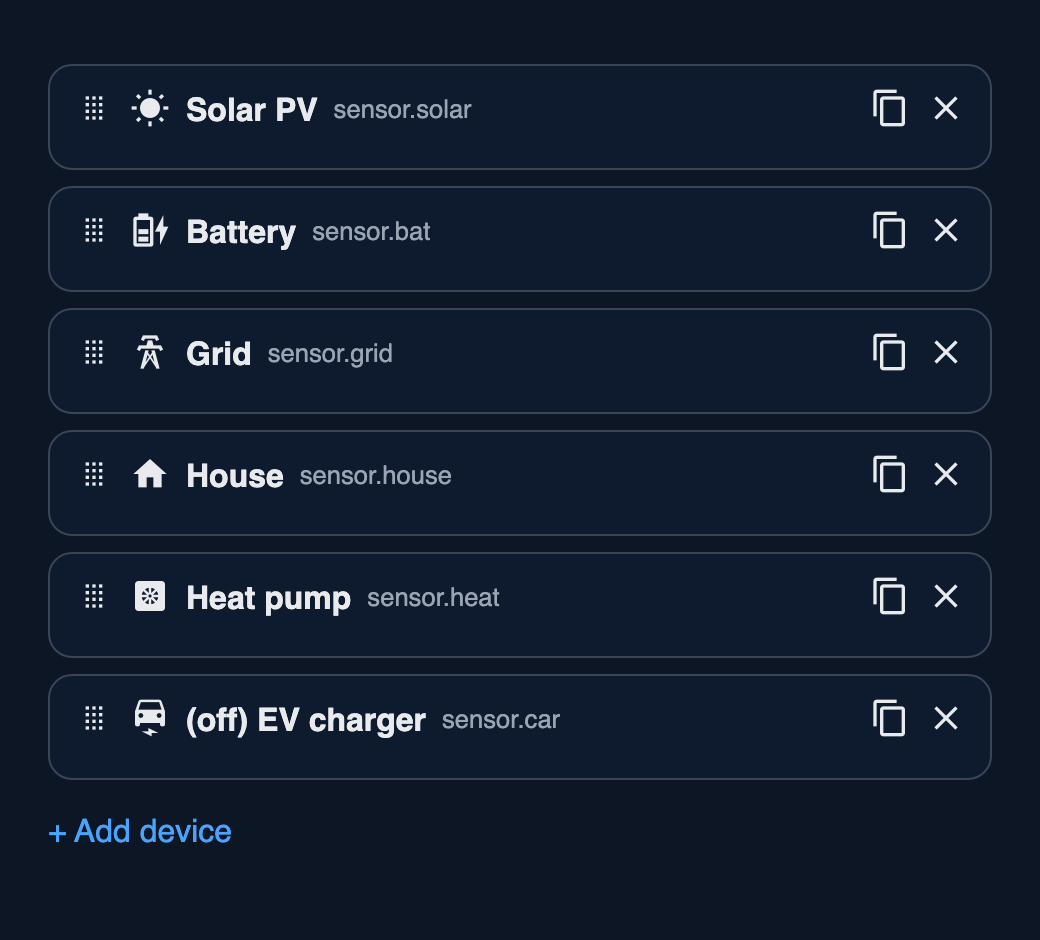
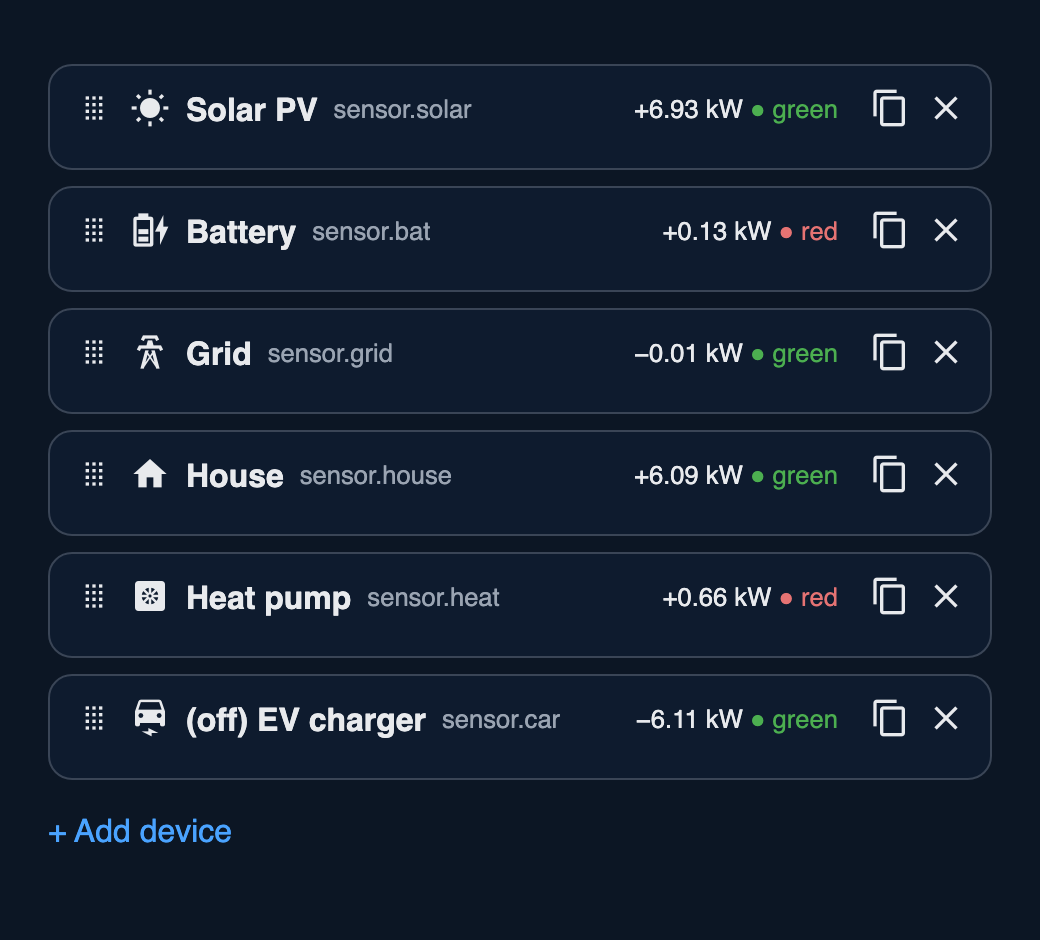
Editor: live value and border colour in row header, colour logic docs

diff --git a/slim-energy-card.js b/slim-energy-card.js
@@ -10,6 +10,28 @@ const TYPES = {
   other: { label: "Other", icon: "mdi:flash", color: "green" },
 };
 
+// sum of the numeric states of ids; W -> kW (or Wh -> kWh when wh); returns [total, unit]
+const sumStates = (hass, ids, wh) => {
+  let t = NaN, u = "";
+  for (const id of ids) {
+    const s = id && hass.states[id];
+    const n = s ? parseFloat(s.state) : NaN;
+    if (isNaN(n)) continue;
+    const un = s.attributes.unit_of_measurement || "";
+    const small = un === (wh ? "Wh" : "W");
+    u = small ? (wh ? "kWh" : "kW") : un;
+    t = (isNaN(t) ? 0 : t) + (small ? n / 1000 : n);
+  }
+  return [t, u];
+};
+
+// border colour for a device value: positive_color (type default) when value > 0 (flipped by invert), the opposite below 0, "" near 0
+const borderColor = (c, kw) => {
+  if (!(Math.abs(kw) > (c.threshold ?? 0.005))) return "";
+  const pos = (c.positive_color || (TYPES[c.type] || TYPES.other).color) === "red" ? "red" : "green";
+  return (kw > 0) === !c.invert ? pos : pos === "red" ? "green" : "red";
+};
+
 class SlimEnergyCard extends HTMLElement {
   setConfig(config) {
     if (!Array.isArray(config.entities) || !config.entities.length) {
@@ -62,19 +84,8 @@ class SlimEnergyCard extends HTMLElement {
     return [n, s];
   }
 
-  // sum of the numeric states of ids; W -> kW (or Wh -> kWh when wh); returns [total, unit]
   _sum(ids, wh) {
-    let t = NaN, u = "";
-    for (const id of ids) {
-      if (!id) continue;
-      const [n, s] = this._num(id);
-      if (isNaN(n)) continue;
-      const un = s.attributes.unit_of_measurement || "";
-      const small = un === (wh ? "Wh" : "W");
-      u = small ? (wh ? "kWh" : "kW") : un;
-      t = (isNaN(t) ? 0 : t) + (small ? n / 1000 : n);
-    }
-    return [t, u];
+    return sumStates(this._hass, ids, wh);
   }
 
   _field(c) {
@@ -83,12 +94,7 @@ class SlimEnergyCard extends HTMLElement {
     let val = "n/a", color = "";
     if (!isNaN(kw)) {
       val = `${Math.abs(kw).toFixed(c.decimals ?? 2)} ${unit}`;
-      if (Math.abs(kw) > (c.threshold ?? 0.005)) {
-        // positive_color: colour shown when value > 0 (default green)
-        const pos = (c.positive_color || T.color) === "red" ? "red" : "green";
-        const neg = pos === "red" ? "green" : "red";
-        color = (kw > 0) === (!c.invert) ? pos : neg;
-      }
+      color = borderColor(c, kw);
     }
     const parts = [];
     if (c.soc_entity) {
@@ -152,8 +158,10 @@ const schemaFor = (type) => [
   ...(type === "grid" ? [{ name: "price_entity", selector: ent() }] : []),
   { name: "daily_entity", selector: ent({ device_class: "energy" }) },
   ...(type === "solar" ? [{ name: "daily_entity_2", selector: ent({ device_class: "energy" }) }] : []),
-  { name: "positive_color", selector: sel([{ value: "green", label: "Green" }, { value: "red", label: "Red" }]) },
-  { name: "invert", selector: bool },
+  { name: "positive_color", selector: sel([{ value: "green", label: "Green" }, { value: "red", label: "Red" }]),
+    helper: "Border colour while the value is above 0; below 0 the opposite colour is used. The live value and resulting colour show in the row header." },
+  { name: "invert", selector: bool,
+    helper: "Flip the sign first, for a sensor that reports the opposite direction (e.g. discharging as positive). Check the live value in the row header." },
 ];
 const MANAGED = ["enabled", "type", "name", "entity", "entity_2", "icon", "soc_entity", "soc_fill", "price_entity", "daily_entity", "daily_entity_2", "positive_color", "invert"];
 
@@ -171,6 +179,7 @@ class SlimEnergyCardEditor extends HTMLElement {
   set hass(hass) {
     this._hass = hass;
     this.querySelectorAll("ha-form").forEach((f) => (f.hass = hass));
+    this.querySelectorAll("summary").forEach((sum, i) => this._config?.entities[i] && this._head(sum, this._config.entities[i]));
   }
 
   _emit(entities, extra = {}) {
@@ -184,6 +193,7 @@ class SlimEnergyCardEditor extends HTMLElement {
     f.schema = schema;
     f.data = data;
     f.computeLabel = (s) => LABELS[s.name] || s.name;
+    f.computeHelper = (s) => s.helper || "";
     f.addEventListener("value-changed", (e) => {
       e.stopPropagation();
       f.data = e.detail.value; // ha-form merges edits into its data prop
@@ -199,6 +209,14 @@ class SlimEnergyCardEditor extends HTMLElement {
     sum.querySelector(".nm").textContent = (e.enabled === false ? "(off) " : "") + (e.name || T.label);
     sum.querySelector(".id").textContent = e.entity || "";
     sum.querySelector(".warn").textContent = e.entity ? "" : "⚠ no entity";
+    // live value and the border colour it currently gets, so direction / invert are easy to judge
+    const cur = sum.querySelector(".cur");
+    const [kw, unit] = this._hass && e.entity ? sumStates(this._hass, [e.entity, e.entity_2]) : [NaN, ""];
+    if (isNaN(kw)) cur.textContent = "";
+    else {
+      const col = borderColor(e, kw);
+      cur.innerHTML = `${kw < 0 ? "−" : "+"}${Math.abs(kw).toFixed(2)} ${unit} <span style="color:var(--slim-${col || "x"}, ${col === "red" ? "#e57373" : col === "green" ? "#4caf50" : "gray"})">● ${col || "neutral"}</span>`;
+    }
   }
 
   _move(from, to) {
@@ -217,7 +235,7 @@ class SlimEnergyCardEditor extends HTMLElement {
       summary { display: flex; align-items: center; gap: 8px; cursor: pointer; list-style: none; padding: 10px 0; }
       summary::-webkit-details-marker { display: none; }
       .h { cursor: grab; } .nm { font-weight: 600; } .warn { color: var(--warning-color, #ffa600); }
-      .id { flex: 1; min-width: 0; color: var(--secondary-text-color); font-size: .8em; overflow: hidden; text-overflow: ellipsis; white-space: nowrap; }
+      .cur { font-size: .8em; white-space: nowrap; } .id { flex: 1; min-width: 0; color: var(--secondary-text-color); font-size: .8em; overflow: hidden; text-overflow: ellipsis; white-space: nowrap; }
       .btn { cursor: pointer; --mdc-icon-size: 20px; }
       .add { display: inline-block; cursor: pointer; color: var(--primary-color); padding: 8px 0; }
     </style>`;
@@ -228,7 +246,7 @@ class SlimEnergyCardEditor extends HTMLElement {
       d.open = this._open.has(key) || !e.entity;
       d.addEventListener("toggle", () => (d.open ? this._open.add(key) : this._open.delete(key)));
       const sum = document.createElement("summary");
-      sum.innerHTML = `<ha-icon class="h" icon="mdi:drag"></ha-icon><span class="ic"></span><span class="nm"></span><span class="id"></span><span class="warn"></span>
+      sum.innerHTML = `<ha-icon class="h" icon="mdi:drag"></ha-icon><span class="ic"></span><span class="nm"></span><span class="id"></span><span class="cur"></span><span class="warn"></span>
         <ha-icon class="btn cp" icon="mdi:content-copy"></ha-icon><ha-icon class="btn rm" icon="mdi:close"></ha-icon>`;
       this._head(sum, e);
       const act = (cls, fn) => sum.querySelector(cls).addEventListener("click", (ev) => { ev.preventDefault(); ev.stopPropagation(); fn(); });

diff --git a/preview.html b/preview.html
@@ -11,6 +11,7 @@
   ha-form { display: block; }
   ha-form label { display: flex; justify-content: space-between; gap: 8px; padding: 4px 0; font-size: 14px; }
   ha-form input[type=text], ha-form select { background: #16263d; color: inherit; border: 1px solid var(--divider-color); border-radius: 4px; padding: 2px 6px; width: 55%; }
+  .hlp { font-size: 12px; color: var(--secondary-text-color); margin: -2px 0 6px; }
   mwc-button { display: inline-block; cursor: pointer; color: #4aa3ff; padding: 6px 0; margin-right: 12px; }
   pre { font-size: 12px; color: var(--secondary-text-color); }
 </style>
@@ -52,6 +53,7 @@
         });
         l.append(i);
         this.append(l);
+        if (s.helper) { const m = document.createElement("div"); m.className = "hlp"; m.textContent = s.helper; this.append(m); }
       }
     }
   });

diff --git a/AGENTS.md b/AGENTS.md
@@ -11,6 +11,7 @@ HACS Lovelace card (`custom:slim-energy-card`). Goal: very simple, slim energy o
 ## Spec
 - Fields in a 3-column grid; one field per entry in `entities`, so 6 entities = 2 rows. Pill: border, icon, value, optional bracket text.
 - Value shown as absolute kW (W converted to kW); other units shown as-is. Missing/non-numeric state shows `n/a`.
+- Editor row header shows live signed value + effective border colour (`sumStates`, `borderColor` shared with the card); `positive_color` and `invert` have helper texts.
 - Border colour from sign: value > 0 uses `positive_color` (`green` default, or `red`), value < 0 the opposite. `invert: true` flips the sign first. `abs(kW) <= threshold` (default 0.005) = neutral border.
 - Bracket text, parts joined with ` · `, in order: battery SoC (`soc_entity`, `52%`), daily energy (`daily_entity`, kWh, Wh converted, 1 decimal), grid price (only `type: grid`, from its `price_entity`, 2 decimals + its unit).
   - Solar: `daily_entity` = daily production. Grid: `daily_entity` = daily use, e.g. `(4.2 kWh · 0.28 €/kWh)`.

diff --git a/README.md b/README.md
@@ -49,6 +49,14 @@ entities:
     enabled: false                     # hide this device
 ```
 
+### Border colour logic
+The border shows the direction of the energy, not whether it is "good":
+- The pill shows the absolute value. The sign decides the colour.
+- Value above 0: the device's `positive_color` (green or red). Value below 0: the other colour. Close to 0 (under `threshold`): neutral.
+- `invert: true` flips the sign before this, for sensors that report the opposite direction.
+- Defaults assume the usual sign: solar, home: positive is green. Battery: charging (positive) is red. Grid: import (positive) is red, export green. Heat pump, EV: positive is red.
+- In the editor, each row header shows the live value and the colour it gets right now, e.g. `+0.13 kW ● red`, so you can check a setting immediately.
+
 ### Device options
 | Option | Default | Description |
 |---|---|---|
